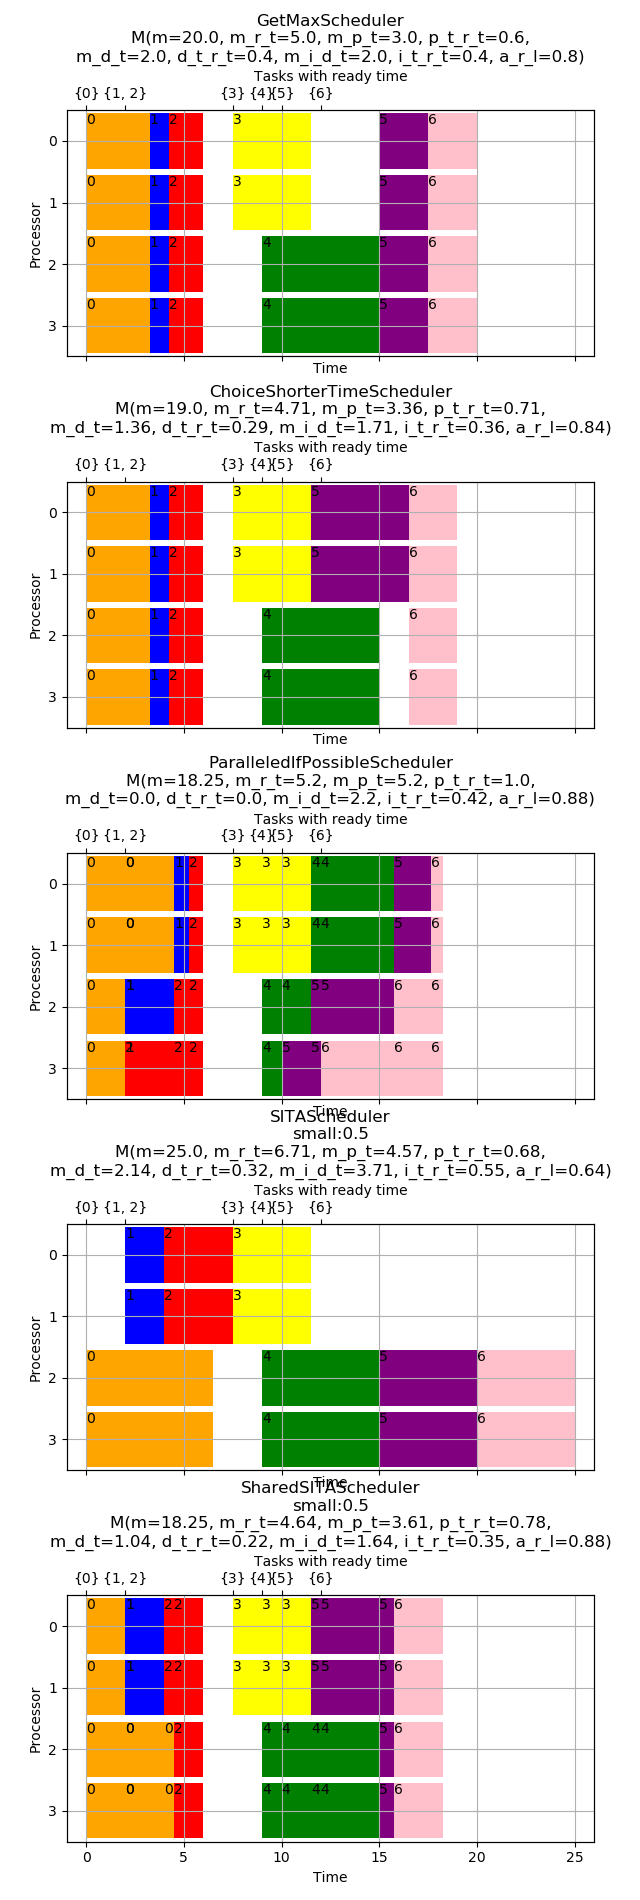
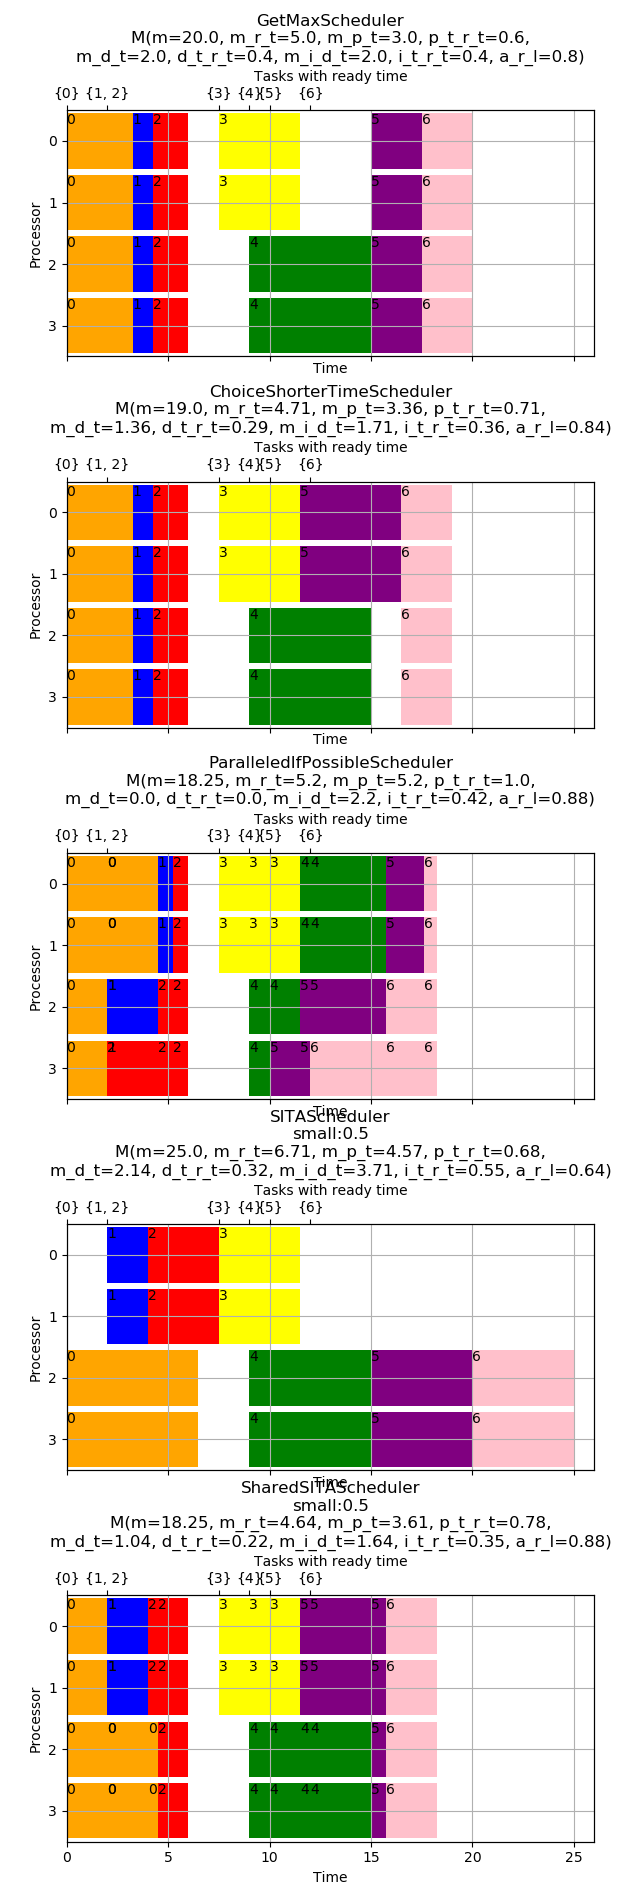
fixes

diff --git a/research.py b/research.py
@@ -1,11 +1,9 @@
-import csv
-from collections import defaultdict
-from enum import Enum, auto
-from typing import Any, List, Dict, DefaultDict, Tuple, Optional
+from typing import Any, List, Dict
 
 from cost_functions import LengthFunctionType
 from generator import Generator
 from metrics import make_metrics, Metrics, make_mean_metrics
+from data import Variable, Parameters, MetricsDatabase
 from plot import print_metrics
 from schedulers.abstract import AbstractScheduler
 from schedulers.abstract_separate import AbstractSeparateScheduler
@@ -15,117 +13,11 @@ from schedulers.paralleled_if_possible import ParalleledIfPossibleScheduler
 from schedulers.sita import SITAScheduler
 from schedulers.shared_sita import SharedSITAScheduler
 
-
-class Variable(Enum):
-    N_PROCESORS = auto()
-    TASK_NUMBER = auto()
-    MAX_LOAD = auto()
-    COV = auto()
-    LENGTH_FUNCTION = auto()
+metrics_database = MetricsDatabase()
+metrics_database.load()
 
 
-class Parameters:
-    def __init__(self, test_number: int, n_procesors: int, task_number: int, max_load: float, cov: float,
-                 length_function: LengthFunctionType):
-        self.test_number = test_number
-        self.n_procesors = n_procesors
-        self.task_number = task_number
-        self.max_load = max_load
-        self.cov = cov
-        self.length_function = length_function
-
-    def __hash__(self) -> int:
-        return hash((self.test_number, self.n_procesors, self.task_number, self.max_load, self.cov,
-                     self.length_function))
-
-    def __eq__(self, other: 'Parameters') -> bool:
-        return (self.test_number, self.n_procesors, self.task_number, self.max_load, self.cov,
-                self.length_function) == \
-               (other.test_number, other.n_procesors, other.task_number, other.max_load, other.cov,
-                other.length_function)
-
-    def make_copy_without_test_number(self) -> 'Parameters':
-        return Parameters(0, self.n_procesors, self.task_number, self.max_load, self.cov,
-                          self.length_function)
-
-    def make_instance_for(self, testing_type: Optional[Variable], val: Any) -> 'Parameters':
-        params = self.make_copy_without_test_number()
-        if testing_type == Variable.N_PROCESORS:
-            params.n_procesors = val
-        elif testing_type == Variable.TASK_NUMBER:
-            params.task_number = val
-        elif testing_type == Variable.MAX_LOAD:
-            params.max_load = val
-        elif testing_type == Variable.COV:
-            params.cov = val
-        elif testing_type == Variable.LENGTH_FUNCTION:
-            params.length_function = val
-        return params
-
-    def print(self):
-        print(f"n_procesors={self.n_procesors}, task_number={self.task_number}")
-        print(f"max_load={self.max_load}, cov={self.cov}")
-        print(f"length_function={self.length_function}")
-
-    @staticmethod
-    def list() -> List[str]:
-        return ["test_number", "n_procesors",
-                "task_number",
-                "max_load", "cov",
-                "length_function"]
-
-    def to_dict(self) -> Dict[str, str]:
-        return {"test_number": str(self.test_number), "n_procesors": str(self.n_procesors),
-                "task_number": str(self.task_number),
-                "max_load": str(self.max_load), "cov": str(self.cov),
-                "length_function": str(self.length_function)}
-
-    @staticmethod
-    def from_dict(tup: Dict[str, str]) -> 'Parameters':
-        length_function = next(filter(lambda x: str(x) == tup["length_function"], LengthFunctionType))
-        return Parameters(int(tup["test_number"]), int(tup["n_procesors"]), int(tup["task_number"]),
-                          float(tup["max_load"]), float(tup["cov"]), length_function)
-
-
-class MetricsDatabase:
-    def __init__(self, database_path: str = "output/metrics.csv"):
-        self.database_path = database_path
-        self.database: DefaultDict[Tuple[Parameters, str], List[Metrics]] = defaultdict(lambda: [])
-
-    def load(self):
-        self.database = defaultdict(lambda: [])
-        try:
-            with open(self.database_path, 'r', newline='', encoding='utf-8') as csvfile:
-                reader = csv.DictReader(csvfile, delimiter=';')
-                for row in reader:
-                    params = Parameters.from_dict(row)
-                    metric = Metrics.from_dict(row)
-                    name = row["name"]
-                    self.save_metric(params, name, metric)
-        except FileNotFoundError:
-            print("No database")
-
-    def save(self):
-        with open(self.database_path, 'w', encoding='utf-8', newline='') as csvfile:
-            fieldnames = ["name"] + Parameters.list() + Metrics.list()
-            writer = csv.DictWriter(csvfile, fieldnames, delimiter=';')
-            writer.writeheader()
-            for (param, name), metrics in self.database.items():
-                for metric in metrics:
-                    to_write = {"name": name}
-                    to_write.update(param.to_dict())
-                    to_write.update(metric.to_dict())
-                    writer.writerow(to_write)
-
-    def get_metrics(self, params: Parameters, algorithm: str) -> List[Metrics]:
-        return self.database.get((params.make_copy_without_test_number(), algorithm), list())
-
-    def save_metric(self, params: Parameters, algorithm: str, metric: Metrics):
-        return self.database[(params.make_copy_without_test_number(), algorithm)].append(metric)
-
-
-def to_plot(metrics_database: MetricsDatabase,
-            default: Parameters, testing_type: Variable, testing_values: List[Any],
+def to_plot(default: Parameters, testing_type: Variable, testing_values: List[Any],
             schedulers: List[AbstractScheduler]) -> Dict[Any, Dict[str, Metrics]]:
     result = {}
     for val in testing_values:
@@ -140,12 +32,20 @@ def to_plot(metrics_database: MetricsDatabase,
     return result
 
 
+def print_metrics_for_data(default: Parameters, testing_type: Variable, testing_values: List[Any],
+                           schedulers: List[AbstractScheduler]):
+    gather = to_plot(default, testing_type, testing_values, schedulers)
+    print_metrics(gather,
+                  f"metrics max_load{default.max_load} cov{default.cov} "
+                  f"length_function{default.length_function} {testing_type}",
+                  file=f"metrics-max-load-{default.max_load}-cov-{default.cov}"
+                       f"-length_function-{default.length_function}-{testing_type}.png")
+
+
 def make_research(default: Parameters, testing_type: Variable, testing_values: List[Any],
                   schedulers: List[AbstractScheduler]):
     default.print()
     print(f"testing_type={testing_type}, testing_values={testing_values}")
-    metrics_database = MetricsDatabase()
-    metrics_database.load()
     for test_id in range(default.test_number):
         print(f"test: {test_id}")
         for val in testing_values:
@@ -168,12 +68,6 @@ def make_research(default: Parameters, testing_type: Variable, testing_values: L
                     metrics = make_metrics(scheduler.procesors)
                     metrics_database.save_metric(params, name, metrics)
             metrics_database.save()
-    gather = to_plot(metrics_database, default, testing_type, testing_values, schedulers)
-    print_metrics(gather,
-                  f"metrics max_load{default.max_load} cov{default.cov} "
-                  f"length_function{default.length_function} {testing_type}",
-                  file=f"metrics-max-load-{default.max_load}-cov-{default.cov}"
-                       f"-length_function-{default.length_function}-{testing_type}.png")
 
 
 ALL_COV = [0.3, 1, 2, 5, 10]
@@ -185,26 +79,27 @@ def research():
         GetMaxScheduler(),
         ChoiceShorterTimeScheduler(),
         ParalleledIfPossibleScheduler(),
-        SITAScheduler(0, 0.05),
+        # SITAScheduler(0, 0.05),
         SITAScheduler(0, 0.25),  # better
         SITAScheduler(0, 0.5),
         SITAScheduler(0, 0.75),
-        SITAScheduler(0, 0.95),
-        SharedSITAScheduler(0, 0.05),
+        # SITAScheduler(0, 0.95),
+        # SharedSITAScheduler(0, 0.05),
         SharedSITAScheduler(0, 0.25),
         SharedSITAScheduler(0, 0.5),
         SharedSITAScheduler(0, 0.75),
-        SharedSITAScheduler(0, 0.95),
+        # SharedSITAScheduler(0, 0.95),
     ]
-    parameters = Parameters(test_number=3, n_procesors=100, task_number=10_000, max_load=1.0, cov=10,
-                            length_function=LengthFunctionType.CONCAVE)
+    length_function = LengthFunctionType.CONCAVE_FLAT
+    parameters = Parameters(test_number=3, n_procesors=100, task_number=10_000,
+                            max_load=1.0, cov=10, length_function=length_function)
     make_research(parameters, Variable.COV, ALL_COV, schedulers)
-    parameters = Parameters(test_number=3, n_procesors=100, task_number=10_000, max_load=0.2, cov=10,
-                            length_function=LengthFunctionType.CONCAVE)
+    parameters = Parameters(test_number=3, n_procesors=100, task_number=10_000,
+                            max_load=0.2, cov=10, length_function=length_function)
     make_research(parameters, Variable.COV, ALL_COV, schedulers)
-    parameters = Parameters(test_number=3, n_procesors=100, task_number=10_000, max_load=0.2, cov=0.3,
-                            length_function=LengthFunctionType.CONCAVE)
+    parameters = Parameters(test_number=3, n_procesors=100, task_number=10_000,
+                            max_load=0.2, cov=0.3, length_function=length_function)
     make_research(parameters, Variable.MAX_LOAD, ALL_PERCENT, schedulers)
-    parameters = Parameters(test_number=3, n_procesors=100, task_number=10_000, max_load=0.2, cov=10,
-                            length_function=LengthFunctionType.CONCAVE)
+    parameters = Parameters(test_number=3, n_procesors=100, task_number=10_000,
+                            max_load=0.2, cov=10, length_function=length_function)
     make_research(parameters, Variable.MAX_LOAD, ALL_PERCENT, schedulers)

diff --git a/data.py b/data.py
@@ -1,0 +1,115 @@
+import csv
+from collections import defaultdict
+from enum import Enum, auto
+from typing import Optional, Any, List, Dict, DefaultDict, Tuple
+
+from cost_functions import LengthFunctionType
+from metrics import Metrics
+
+
+class Variable(Enum):
+    N_PROCESORS = auto()
+    TASK_NUMBER = auto()
+    MAX_LOAD = auto()
+    COV = auto()
+    LENGTH_FUNCTION = auto()
+
+
+class Parameters:
+    def __init__(self, test_number: int, n_procesors: int, task_number: int, max_load: float, cov: float,
+                 length_function: LengthFunctionType):
+        self.test_number = test_number
+        self.n_procesors = n_procesors
+        self.task_number = task_number
+        self.max_load = max_load
+        self.cov = cov
+        self.length_function = length_function
+
+    def __hash__(self) -> int:
+        return hash((self.test_number, self.n_procesors, self.task_number, self.max_load, self.cov,
+                     self.length_function))
+
+    def __eq__(self, other: 'Parameters') -> bool:
+        return (self.test_number, self.n_procesors, self.task_number, self.max_load, self.cov,
+                self.length_function) == \
+               (other.test_number, other.n_procesors, other.task_number, other.max_load, other.cov,
+                other.length_function)
+
+    def make_copy_without_test_number(self) -> 'Parameters':
+        return Parameters(0, self.n_procesors, self.task_number, self.max_load, self.cov,
+                          self.length_function)
+
+    def make_instance_for(self, testing_type: Optional[Variable], val: Any) -> 'Parameters':
+        params = self.make_copy_without_test_number()
+        if testing_type == Variable.N_PROCESORS:
+            params.n_procesors = val
+        elif testing_type == Variable.TASK_NUMBER:
+            params.task_number = val
+        elif testing_type == Variable.MAX_LOAD:
+            params.max_load = val
+        elif testing_type == Variable.COV:
+            params.cov = val
+        elif testing_type == Variable.LENGTH_FUNCTION:
+            params.length_function = val
+        return params
+
+    def print(self):
+        print(f"n_procesors={self.n_procesors}, task_number={self.task_number}")
+        print(f"max_load={self.max_load}, cov={self.cov}")
+        print(f"length_function={self.length_function}")
+
+    @staticmethod
+    def list() -> List[str]:
+        return ["test_number", "n_procesors",
+                "task_number",
+                "max_load", "cov",
+                "length_function"]
+
+    def to_dict(self) -> Dict[str, str]:
+        return {"test_number": str(self.test_number), "n_procesors": str(self.n_procesors),
+                "task_number": str(self.task_number),
+                "max_load": str(self.max_load), "cov": str(self.cov),
+                "length_function": str(self.length_function)}
+
+    @staticmethod
+    def from_dict(tup: Dict[str, str]) -> 'Parameters':
+        length_function = next(filter(lambda x: str(x) == tup["length_function"], LengthFunctionType))
+        return Parameters(int(tup["test_number"]), int(tup["n_procesors"]), int(tup["task_number"]),
+                          float(tup["max_load"]), float(tup["cov"]), length_function)
+
+
+class MetricsDatabase:
+    def __init__(self, database_path: str = "output/metrics.csv"):
+        self.database_path = database_path
+        self.database: DefaultDict[Tuple[Parameters, str], List[Metrics]] = defaultdict(lambda: [])
+
+    def load(self):
+        self.database = defaultdict(lambda: [])
+        try:
+            with open(self.database_path, 'r', newline='', encoding='utf-8') as csvfile:
+                reader = csv.DictReader(csvfile, delimiter=';')
+                for row in reader:
+                    params = Parameters.from_dict(row)
+                    metric = Metrics.from_dict(row)
+                    name = row["name"]
+                    self.save_metric(params, name, metric)
+        except FileNotFoundError:
+            print("No database")
+
+    def save(self):
+        with open(self.database_path, 'w', encoding='utf-8', newline='') as csvfile:
+            fieldnames = ["name"] + Parameters.list() + Metrics.list()
+            writer = csv.DictWriter(csvfile, fieldnames, delimiter=';')
+            writer.writeheader()
+            for (param, name), metrics in self.database.items():
+                for metric in metrics:
+                    to_write = {"name": name}
+                    to_write.update(param.to_dict())
+                    to_write.update(metric.to_dict())
+                    writer.writerow(to_write)
+
+    def get_metrics(self, params: Parameters, algorithm: str) -> List[Metrics]:
+        return self.database.get((params.make_copy_without_test_number(), algorithm), list())
+
+    def save_metric(self, params: Parameters, algorithm: str, metric: Metrics):
+        return self.database[(params.make_copy_without_test_number(), algorithm)].append(metric)

diff --git a/metrics.py b/metrics.py
@@ -1,8 +1,21 @@
 from typing import Tuple, List, DefaultDict, Dict
+from enum import Enum, auto
 from collections import defaultdict
 from statistics import mean
 
 from models import Procesor, Task
+
+
+class MetricType(Enum):
+    MAX_END = auto()
+    MEAN_RESPONSE_TIME = auto()
+    MEAN_PROCESSING_TIME = auto()
+    MEAN_DELAY_TIME = auto()
+    MEAN_IDEAL_DELAY_TIME = auto()
+    PROCESSING_TIME_TO_RESPONSE_TIME = auto()
+    DELAY_TIME_TO_RESPONSE_TIME = auto()
+    IDEAL_DELAY_TIME_TO_RESPONSE_TIME = auto()
+    ACTUAL_RESOURCE_LOAD = auto()
 
 
 class Metrics:
@@ -27,6 +40,27 @@ class Metrics:
                f"m_i_d_t={round(self.mean_ideal_delay_time, 2)}, " \
                f"i_t_r_t={round(self.ideal_delay_time_to_response_time, 2)}, " \
                f"a_r_l={round(self.actual_resource_load, 2)})"
+
+    def get(self, typ: MetricType) -> float:
+        if typ == MetricType.MAX_END:
+            return self.max_end
+        elif typ == MetricType.MEAN_RESPONSE_TIME:
+            return self.mean_response_time
+        elif typ == MetricType.MEAN_PROCESSING_TIME:
+            return self.mean_processing_time
+        elif typ == MetricType.MEAN_DELAY_TIME:
+            return self.mean_delay_time
+        elif typ == MetricType.MEAN_IDEAL_DELAY_TIME:
+            return self.mean_ideal_delay_time
+        elif typ == MetricType.PROCESSING_TIME_TO_RESPONSE_TIME:
+            return self.processing_time_to_response_time
+        elif typ == MetricType.DELAY_TIME_TO_RESPONSE_TIME:
+            return self.delay_time_to_response_time
+        elif typ == MetricType.IDEAL_DELAY_TIME_TO_RESPONSE_TIME:
+            return self.ideal_delay_time_to_response_time
+        elif typ == MetricType.ACTUAL_RESOURCE_LOAD:
+            return self.actual_resource_load
+        return 0
 
     @staticmethod
     def list() -> List[str]:

diff --git a/plot.py b/plot.py
@@ -30,7 +30,7 @@ def plot_scheduling(ax: Axes, instance: List[Task], scheduling: List[Procesor], 
         ax.set_title(name)
     ax.grid(True)
 
-    ax.set_xlim(-1, xmax)
+    ax.set_xlim(0, xmax)
     ax.set_xlabel('Time')
     ax.set_ylabel('Processor')
     ax.set_ylim(0, 10 * len(scheduling))
